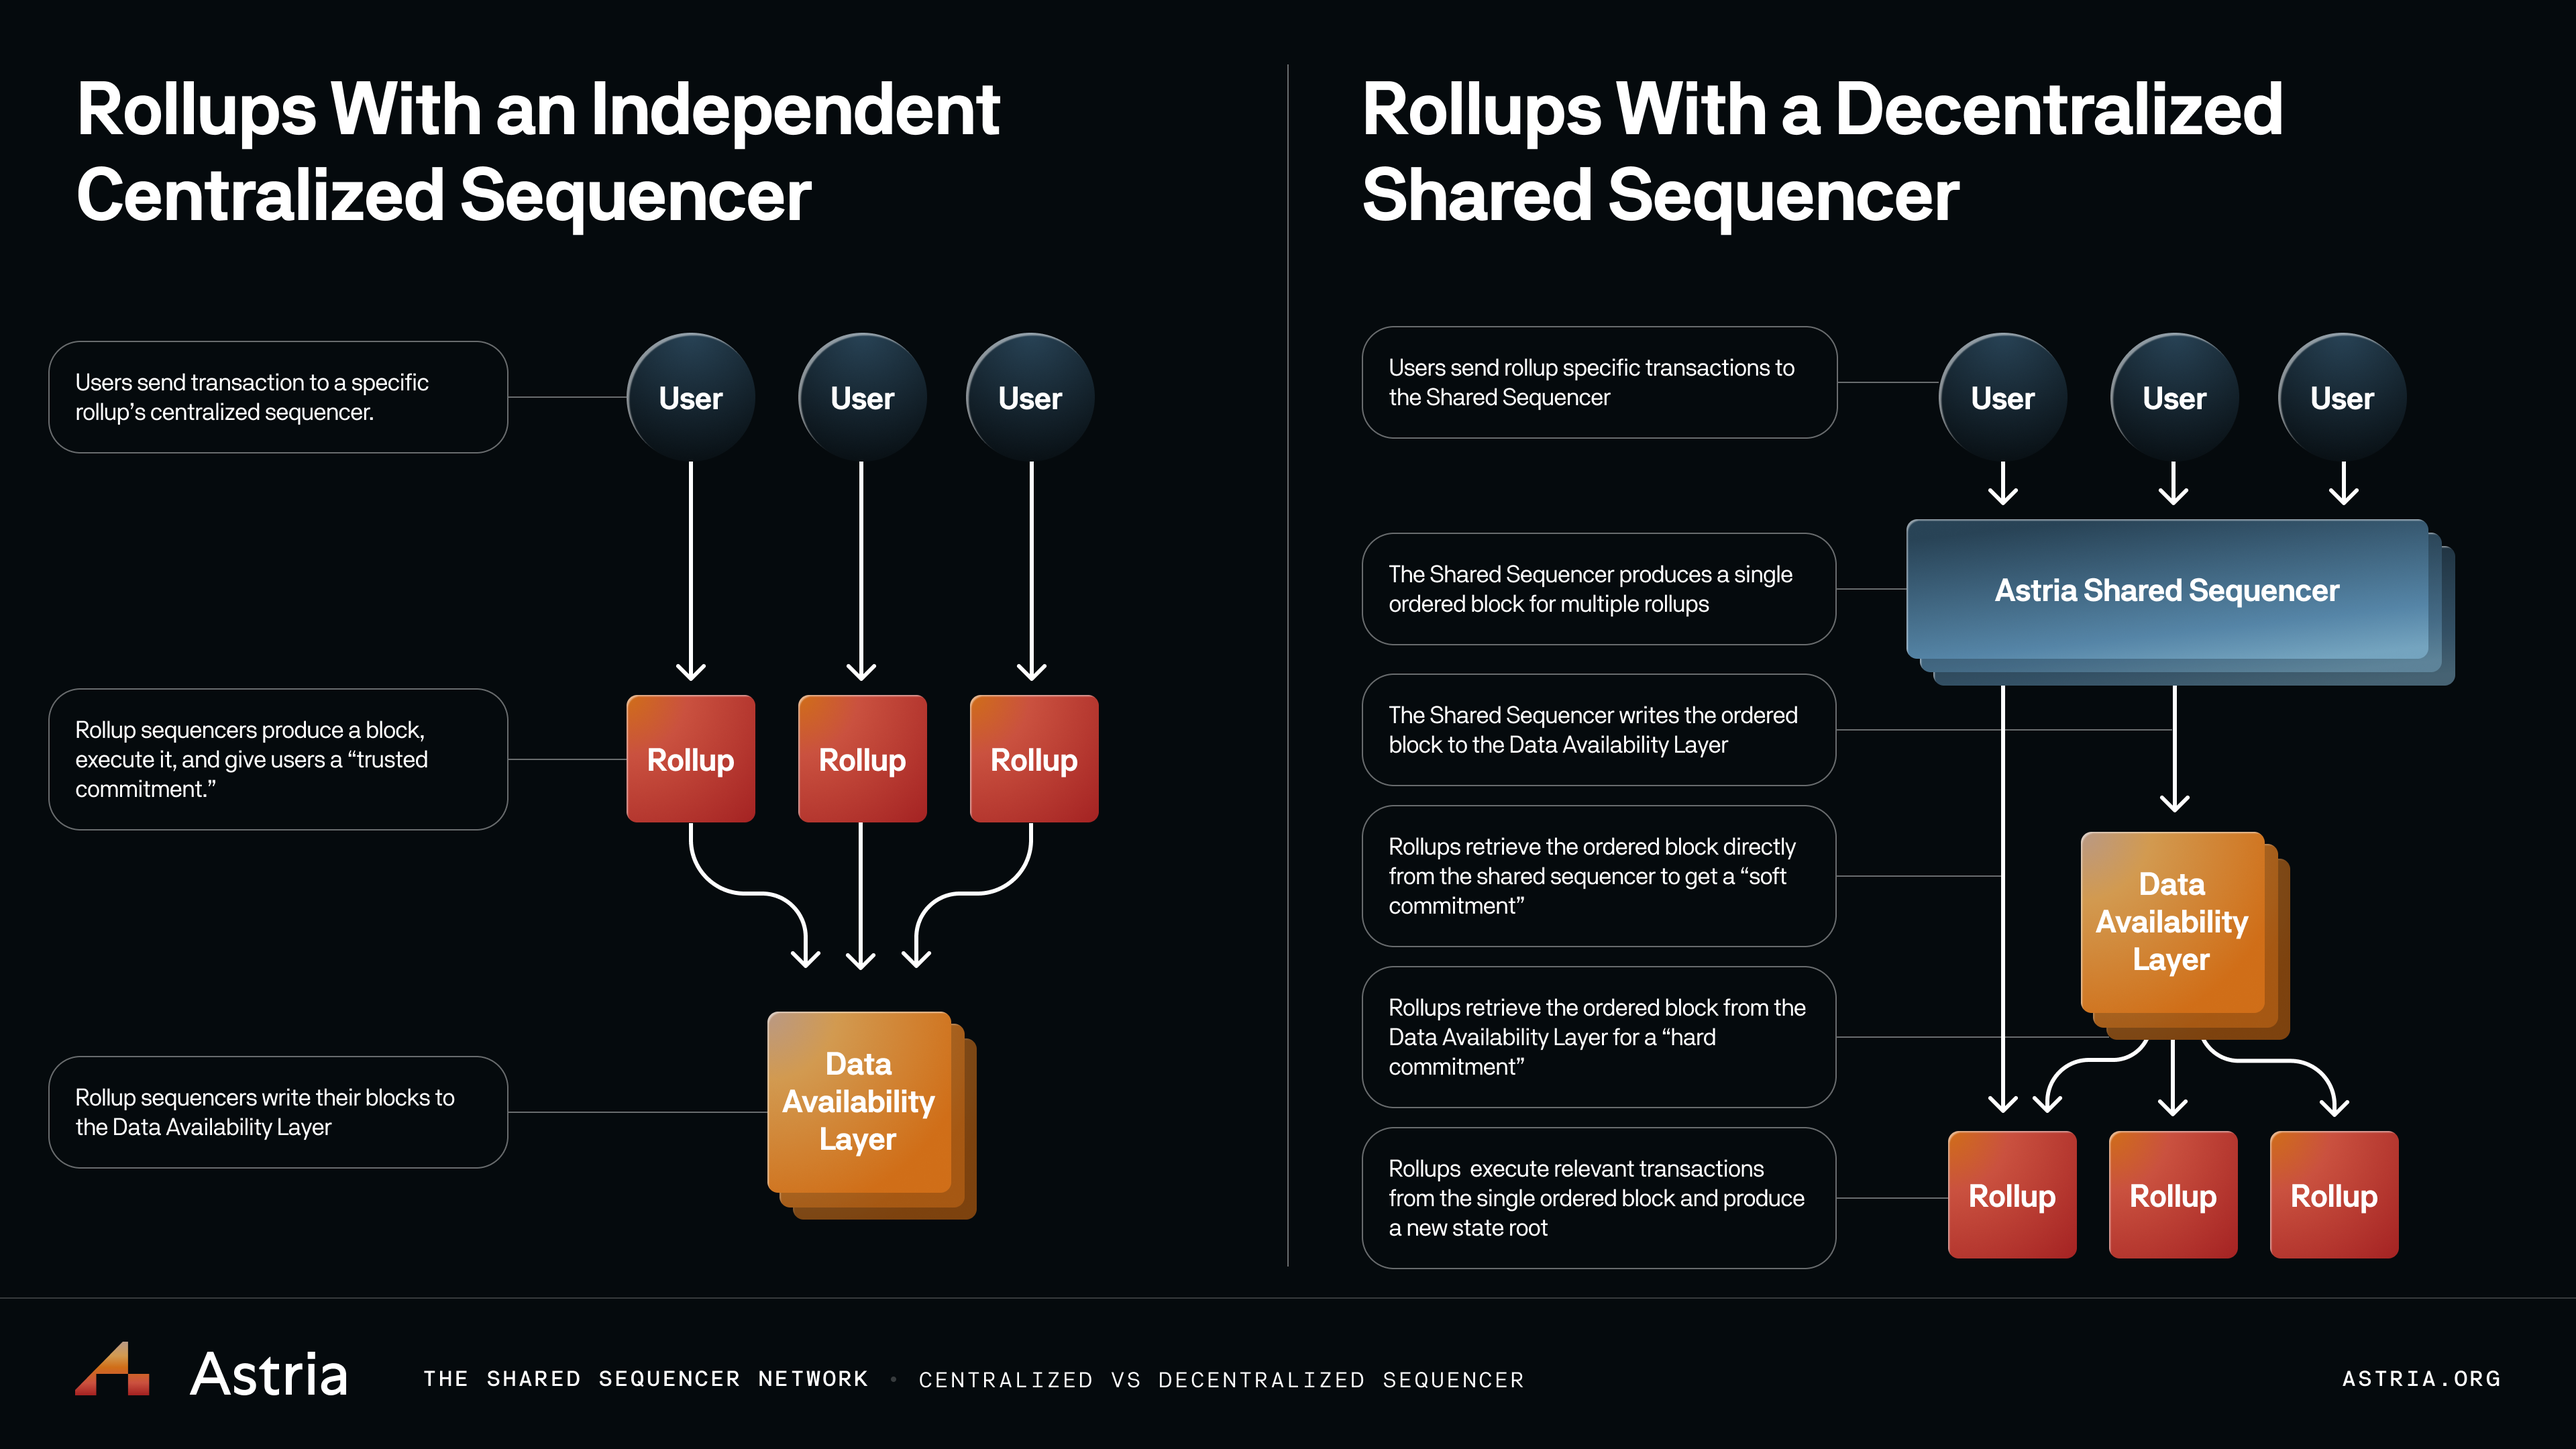
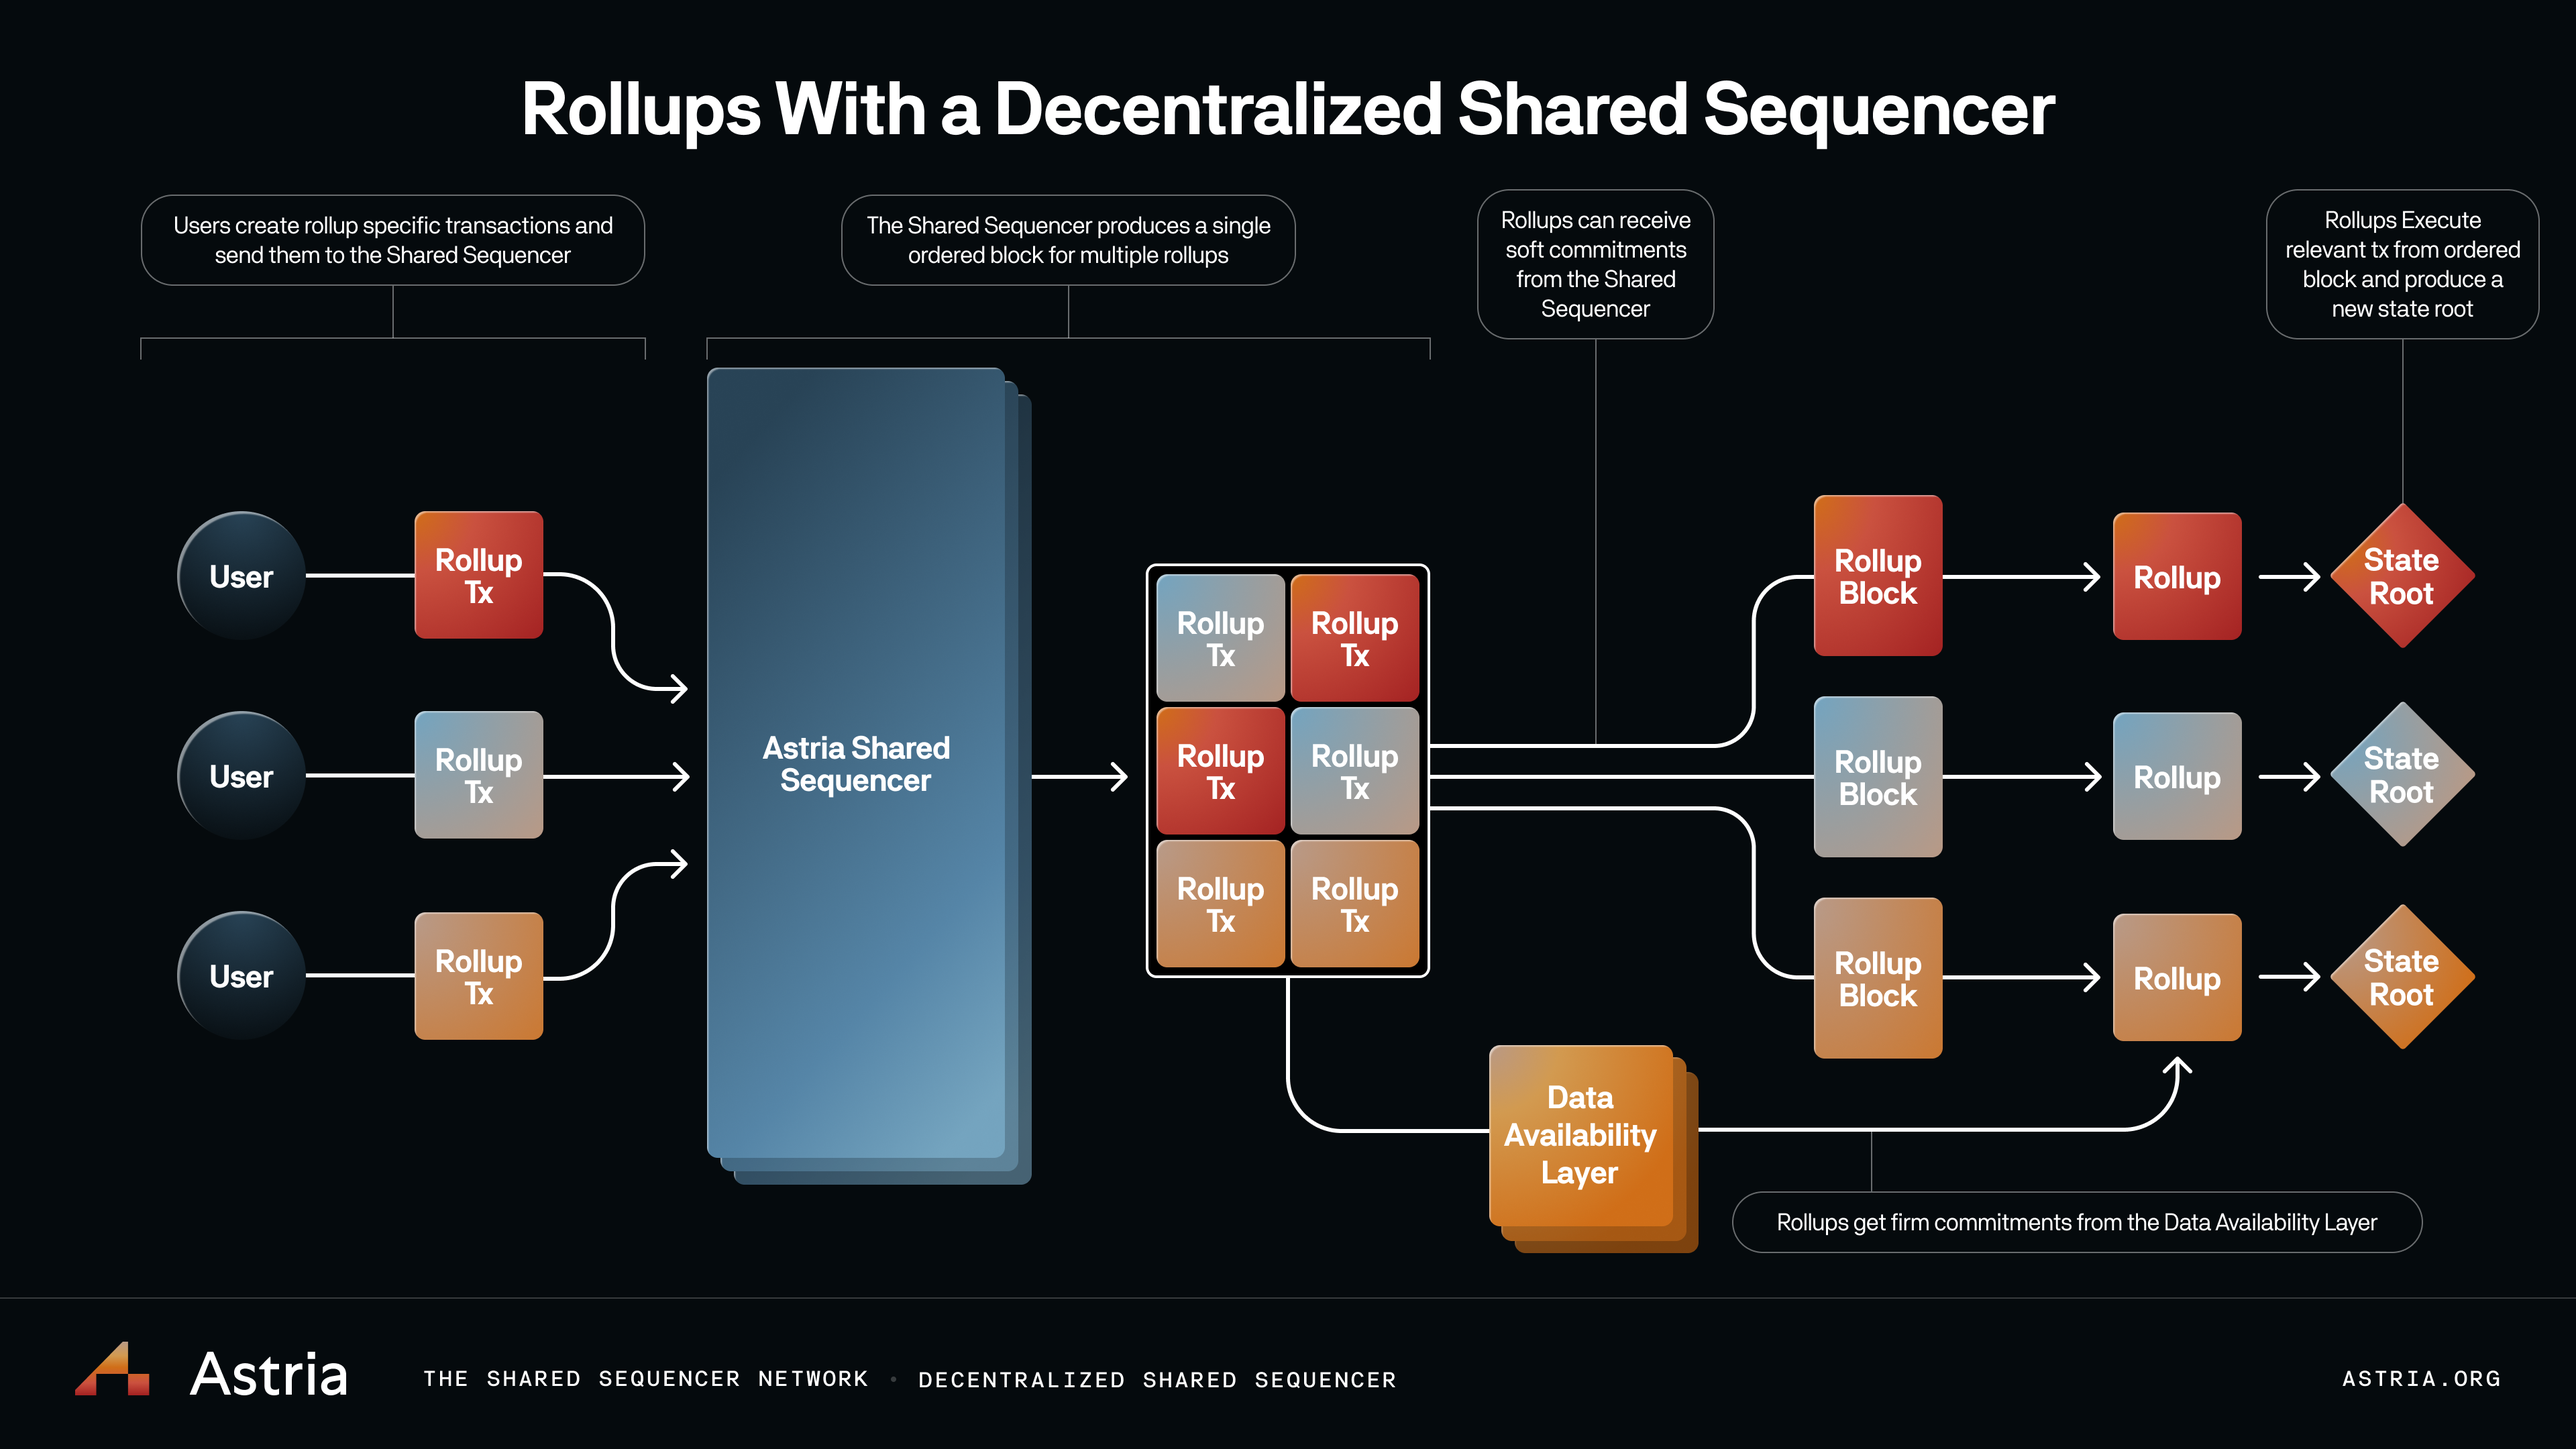
reorg of decentralized and arch intros

diff --git a/docs/overview-of-astria/architecture/1-overview.md b/docs/overview-of-astria/architecture/1-overview.md
@@ -11,4 +11,15 @@ their specific needs.
 
 ![Astria Architecture](../assets/astria-architecture.png)
 
+Given this architecture, rollups can retrieve blocks from Astria immediately after they’re created, without waiting for the base layer to include them. The economic weight of Astria’s decentralized sequencer set provides confidence that this transaction order is final. This “soft commitment” allows rollups to provide their end users with fast block confirmations. Alternatively, rollups can wait for blocks to be included by the base layer, giving them the strongest finality. All transactions still get this “firm commitment” at the speed of the base layer, fast pre-confirmations are just an additional feature that Astria provides to rollups if they choose to use it.
+
+To generate a new state root, a rollup’s full nodes retrieve a block from either
+Astria or the base layer, check it against Astria’s fork choice rule, filter out
+transactions from other rollups, and apply the resultant subset of transactions
+to their previous state. Headers can then be generated from this state root and
+gossiped to light clients. Rollups of this style are termed ‘Lazy Rollups’, a
+nod to the [Lazy
+Evaluation](https://en.wikipedia.org/wiki/Lazy_evaluation?ref=blog.astria.org)
+principle found in programming language theory.
+
 See the [Astria repo here.](https://github.com/astriaorg/astria)

diff --git a/docs/overview-of-astria/2-why-decentralized-sequencers.md b/docs/overview-of-astria/2-why-decentralized-sequencers.md
@@ -1,0 +1,13 @@
+---
+sidebar_position: 2
+---
+
+# Why Decentralized Sequencers?
+
+Centralization is antithetical to crypto. And yet, today’s rollups almost universally depend on a single sequencer. Centralized sequencers provide fast transaction confirmations and reduce costs by batching and compressing transactions. However, these benefits come at the cost of relying on a single trusted actor for liveness and censorship resistance.
+
+**Sacrificing decentralization for an improved user experience is an unacceptable Faustian bargain.**
+
+Astria tackles centralization head-on, providing rollups with a decentralized sequencer and even better UX. Astria’s shared sequencer network is a middleware blockchain with its own decentralized sequencer set which accepts transactions from multiple rollups. These transactions are ordered into a single block and written to the base layer without executing them.
+
+![Shared Sequencers](assets/shared_sequencer.png)
